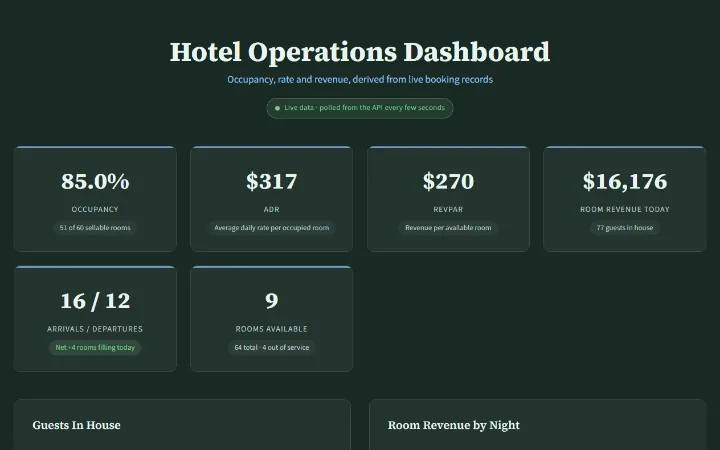
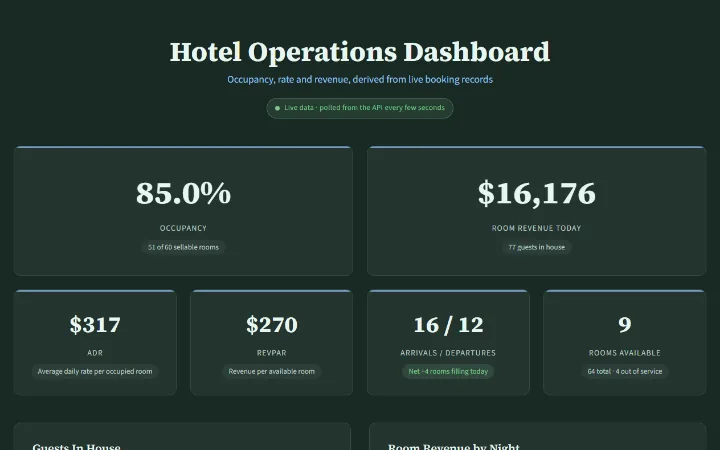
feat: minor visual improvements

diff --git a/e2e/dashboard.spec.ts b/e2e/dashboard.spec.ts
@@ -135,6 +135,82 @@ test.describe('dashboard with the backend up', () => {
   });
 });
 
+/**
+ * The grid's rows, as the eye reads them: card labels grouped by their top
+ * edge, each row left to right, and whether that row reaches the grid's right
+ * edge. A row that falls short has an empty slot at the end of it.
+ */
+async function metricRows(page: Page): Promise<Array<{ labels: string[]; filled: boolean }>> {
+  return page.locator('.metrics-grid').evaluate((grid) => {
+    const right = grid.getBoundingClientRect().right;
+    const rows = new Map<number, Array<{ label: string; left: number; right: number }>>();
+    for (const card of Array.from(grid.querySelectorAll('.metric-card'))) {
+      const box = card.getBoundingClientRect();
+      const top = Math.round(box.top);
+      const label = card.querySelector('.metric-label')?.textContent?.trim() ?? '';
+      rows.set(top, [...(rows.get(top) ?? []), { label, left: box.left, right: box.right }]);
+    }
+    return [...rows.entries()]
+      .sort(([a], [b]) => a - b)
+      .map(([, cards]) => {
+        cards.sort((a, b) => a.left - b.left);
+        return {
+          labels: cards.map((c) => c.label),
+          filled: Math.abs(cards[cards.length - 1].right - right) < 1,
+        };
+      });
+  });
+}
+
+test.describe('dashboard layout', () => {
+  test('puts occupancy and revenue above four supporting figures at 1280px', async ({ page }) => {
+    await page.setViewportSize({ width: 1280, height: 900 });
+    await stubBackendUp(page);
+    await page.goto('/dashboard');
+    await expect(page.locator('.metric-card')).toHaveCount(METRIC_CARDS);
+
+    expect(await metricRows(page)).toEqual([
+      { labels: ['Occupancy', 'Room Revenue Today'], filled: true },
+      { labels: ['ADR', 'RevPAR', 'Arrivals / Departures', 'Rooms Available'], filled: true },
+    ]);
+
+    // "Visibly primary" as a number rather than a judgement.
+    const size = (label: string): Promise<number> =>
+      metricCard(page, label)
+        .locator('.metric-value')
+        .evaluate((el) => parseFloat(el.ownerDocument.defaultView!.getComputedStyle(el).fontSize));
+    expect(await size('Occupancy')).toBeGreaterThan(await size('ADR'));
+    expect(await size('Room Revenue Today')).toBeGreaterThan(await size('ADR'));
+  });
+
+  test('stacks every card readably at 390px with no horizontal scroll', async ({ page }) => {
+    await page.setViewportSize({ width: 390, height: 844 });
+    await stubBackendUp(page);
+    await page.goto('/dashboard');
+    await expect(page.locator('.metric-card')).toHaveCount(METRIC_CARDS);
+
+    const rows = await metricRows(page);
+    expect(rows.map((r) => r.labels)).toEqual([
+      ['Occupancy'],
+      ['Room Revenue Today'],
+      ['ADR'],
+      ['RevPAR'],
+      ['Arrivals / Departures'],
+      ['Rooms Available'],
+    ]);
+    expect(rows.every((r) => r.filled)).toBe(true);
+
+    expect(
+      await page.evaluate(() => document.documentElement.scrollWidth <= window.innerWidth)
+    ).toBe(true);
+    // A value wider than its card is clipped by the card's overflow: hidden,
+    // which no page-level scroll check would notice.
+    for (const value of await page.locator('.metric-value').all()) {
+      expect(await value.evaluate((el) => el.scrollWidth <= el.clientWidth)).toBe(true);
+    }
+  });
+});
+
 test.describe('dashboard with the backend down', () => {
   test('falls back to the committed fixture and says so', async ({ page }) => {
     await stubBackendDown(page);

diff --git a/src/app/dashboard/metrics-grid/metrics-grid.css b/src/app/dashboard/metrics-grid/metrics-grid.css
@@ -1,9 +1,47 @@
-/* Metrics Grid */
+/* Metrics Grid
+
+   Two tiers. Occupancy and room revenue today are what a duty manager reads
+   first, so they take the top row at double width; the four supporting
+   figures share the row beneath. An `auto-fit` grid used to lay six equal
+   cards out as four plus two, with two empty slots and no first thing to read.
+
+   The placement is done with named areas, not by reordering the DOM. Source
+   order stays the order the cards were written in, and the throttled
+   `role="status"` digest is unaffected because the grid is not a live region.
+   No card is focusable, so the visual order cannot disagree with a focus
+   order. `e2e/dashboard.spec.ts` checks the rows at 1280px and 390px. */
 .metrics-grid {
   display: grid;
-  grid-template-columns: repeat(auto-fit, minmax(240px, 1fr));
+  grid-template-columns: repeat(4, minmax(0, 1fr));
+  grid-template-areas:
+    'occupancy occupancy revenue revenue'
+    'adr revpar movement available';
   gap: 1.5rem;
   margin-bottom: 3rem;
+}
+
+.metric-card--occupancy {
+  grid-area: occupancy;
+}
+
+.metric-card--revenue {
+  grid-area: revenue;
+}
+
+.metric-card--adr {
+  grid-area: adr;
+}
+
+.metric-card--revpar {
+  grid-area: revpar;
+}
+
+.metric-card--movement {
+  grid-area: movement;
+}
+
+.metric-card--available {
+  grid-area: available;
 }
 
 .metric-card {
@@ -67,10 +105,44 @@
   color: var(--color-negative);
 }
 
-/* Responsive */
-@media (max-width: 768px) {
+/* The primary pair says so by size alone; the card chrome is unchanged. */
+.metric-card--primary {
+  padding: 2.25rem 1.75rem;
+}
+
+.metric-card--primary .metric-value {
+  font-size: 3.5rem;
+}
+
+/* Responsive. Below 1024px four supporting cards no longer fit a row, so the
+   grid becomes two columns: the primary pair still shares the top row, and
+   the four beneath fill two rows exactly. */
+@media (max-width: 1024px) {
   .metrics-grid {
-    grid-template-columns: repeat(auto-fit, minmax(180px, 1fr));
+    grid-template-columns: repeat(2, minmax(0, 1fr));
+    grid-template-areas:
+      'occupancy revenue'
+      'adr revpar'
+      'movement available';
+  }
+}
+
+/* A phone gets one column. At 390px two columns leave each card about 110px
+   of content width, narrower than a four-figure currency at 2.5rem. */
+@media (max-width: 600px) {
+  .metrics-grid {
+    grid-template-columns: minmax(0, 1fr);
+    grid-template-areas:
+      'occupancy'
+      'revenue'
+      'adr'
+      'revpar'
+      'movement'
+      'available';
     gap: 1rem;
+  }
+
+  .metric-card--primary .metric-value {
+    font-size: 3rem;
   }
 }

diff --git a/src/app/dashboard/metrics-grid/metrics-grid.html b/src/app/dashboard/metrics-grid/metrics-grid.html
@@ -8,8 +8,10 @@
   <!-- The cards used to open on an emoji each. The label already names the
        metric, so the icon only stood between the eye and the number; without
        it the number is the first thing a card says. -->
+  <!-- Source order is the order the cards were written in. The layout, with
+       occupancy and revenue on top, is placed in metrics-grid.css. -->
   <div class="metrics-grid">
-    <div class="metric-card">
+    <div class="metric-card metric-card--primary metric-card--occupancy">
       <div class="metric-value">{{ metrics().occupancy | number: '1.1-1' }}%</div>
       <div class="metric-label">Occupancy</div>
       <div class="metric-detail">
@@ -17,19 +19,19 @@
       </div>
     </div>
 
-    <div class="metric-card">
+    <div class="metric-card metric-card--adr">
       <div class="metric-value">{{ metrics().adr | currency: 'USD' : 'symbol' : '1.0-0' }}</div>
       <div class="metric-label">ADR</div>
       <div class="metric-detail">Average daily rate per occupied room</div>
     </div>
 
-    <div class="metric-card">
+    <div class="metric-card metric-card--revpar">
       <div class="metric-value">{{ metrics().revpar | currency: 'USD' : 'symbol' : '1.0-0' }}</div>
       <div class="metric-label">RevPAR</div>
       <div class="metric-detail">Revenue per available room</div>
     </div>
 
-    <div class="metric-card">
+    <div class="metric-card metric-card--primary metric-card--revenue">
       <div class="metric-value">
         {{ metrics().revenueToday | currency: 'USD' : 'symbol' : '1.0-0' }}
       </div>
@@ -37,7 +39,7 @@
       <div class="metric-detail">{{ metrics().guestsInHouse | number }} guests in house</div>
     </div>
 
-    <div class="metric-card">
+    <div class="metric-card metric-card--movement">
       <div class="metric-value">
         {{ metrics().arrivalsToday }} / {{ metrics().departuresToday }}
       </div>
@@ -57,7 +59,7 @@
       </div>
     </div>
 
-    <div class="metric-card">
+    <div class="metric-card metric-card--available">
       <div class="metric-value">{{ metrics().availableRooms }}</div>
       <div class="metric-label">Rooms Available</div>
       <div class="metric-detail">

diff --git a/CLAUDE.md b/CLAUDE.md
@@ -33,7 +33,7 @@ product; it is a hiring artifact. That distinction decides most arguments:
 
 | File                | Size | Read it when                                                                                                                                                                                                                                                                                                                                                                                                                                                                                                                                                                                                                                                                                                                                                                                                                                                                                                                                                                                                                                                                                                       |
 | ------------------- | ---- | ------------------------------------------------------------------------------------------------------------------------------------------------------------------------------------------------------------------------------------------------------------------------------------------------------------------------------------------------------------------------------------------------------------------------------------------------------------------------------------------------------------------------------------------------------------------------------------------------------------------------------------------------------------------------------------------------------------------------------------------------------------------------------------------------------------------------------------------------------------------------------------------------------------------------------------------------------------------------------------------------------------------------------------------------------------------------------------------------------------------ |
-| `ROADMAP.md`        | 8K   | **Any question of "what should I build".** Numbered items with Definitions of Done (today: a visual pass that brings the interface back in line with its own motion, colour and icon rules), plus a "Deliberately not doing" list. Start here.                                                                                                                                                                                                                                                                                                                                                                                                                                                                                                                                                                                                                                                                                                                                                                                                                                                                     |
+| `ROADMAP.md`        | 6K   | **Any question of "what should I build".** Numbered items with Definitions of Done (today: a visual pass that brings the interface back in line with its own motion, colour and icon rules), plus a "Deliberately not doing" list. Start here.                                                                                                                                                                                                                                                                                                                                                                                                                                                                                                                                                                                                                                                                                                                                                                                                                                                                     |
 | `README.md`         | 9K   | Almost never — it is a one-page shop window that links here and to `ARCHITECTURE.md`.                                                                                                                                                                                                                                                                                                                                                                                                                                                                                                                                                                                                                                                                                                                                                                                                                                                                                                                                                                                                                              |
 | `ARCHITECTURE.md`   | 25K  | The reference doc: API shapes, the error contract, transports and badges, deployment, env vars, a11y.                                                                                                                                                                                                                                                                                                                                                                                                                                                                                                                                                                                                                                                                                                                                                                                                                                                                                                                                                                                                              |
 | `backend/README.md` | 15K  | You are working inside `backend/` — DB schema, seeding, streaming design, Alembic.                                                                                                                                                                                                                                                                                                                                                                                                                                                                                                                                                                                                                                                                                                                                                                                                                                                                                                                                                                                                                                 |

diff --git a/ROADMAP.md b/ROADMAP.md
@@ -33,23 +33,7 @@ or see a tutorial?_ Prefer finishing one thing convincingly over starting three.
 
 ## Items
 
-### 1. Give the dashboard a layout with a hierarchy
-
-**Effort:** small. **Why:** six metric cards in an `auto-fit, minmax(240px, 1fr)` grid come out as
-four plus two at desktop width, with two empty slots at the end of the second row. Every card is
-also the same size, so nothing on the screen says what a hotelier reads first.
-
-**DoD:**
-
-- At 1280px, no row of metric cards has an empty slot.
-- Occupancy and room revenue today are visibly primary: larger cards or a larger value, in a row
-  above the other four. Implemented with `grid-template-areas` or explicit spans, not by
-  reordering the DOM. The reading order and the throttled `role="status"` digest stay as they are.
-- At 390px every card is still readable without horizontal scroll, and the e2e axe pass stays
-  clean.
-- Frames re-captured.
-
-### 2. Make the three NDA cards read as deliberate, not as missing images
+### 1. Make the three NDA cards read as deliberate, not as missing images
 
 **Effort:** small. **Why:** the last row of project cards says "No screenshot. The case study shows
 the reasoning." three times in a row. One of those reads as an honest note; three in a row read as
@@ -65,7 +49,7 @@ broken images.
   cannot drift. If the data has no field for it, add one there.
 - The footnote under the grid still explains why there are no screenshots.
 
-### 3. Small consistency fixes: contact headings, booking errors, a stale header
+### 2. Small consistency fixes: contact headings, booking errors, a stale header
 
 **Effort:** small. Three unrelated fixes, batched because each is too small to stand on its own.
 
@@ -87,7 +71,7 @@ broken images.
   rules.
 - Frames re-captured if `/booking` changed.
 
-### 4. Rework the hero's composition
+### 3. Rework the hero's composition
 
 **Effort:** medium. **Why:** the first screen is left-aligned text with the right ~40% of a desktop
 viewport empty, and three buttons of equal weight. It is the weakest screen on the site and the one
